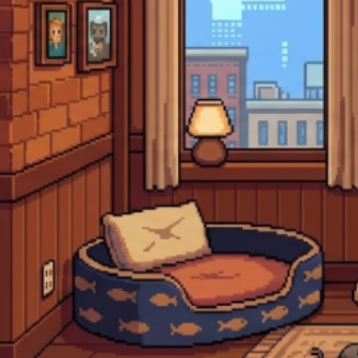
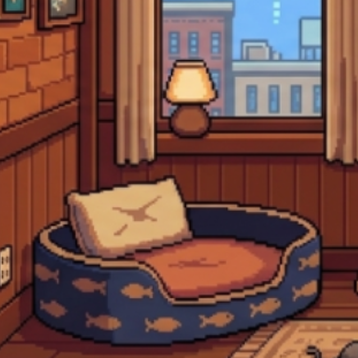
Retoques de Albert: gotas fuera de entrenando, michi mas grande, zzz en diagonal y la cama centrada
Cuatro ajustes tras probar la app en el movil:

- michi_entrenando tenia unas gotas de agua sueltas en la esquina
  inferior derecha, en los cuatro colores: son un resto de la celda
  vecina (michi_cansado) que la rejilla fija del recorte no separaba
  limpio. limpiar_gotas_entrenando(), en recortar_model_sheets.py,
  quita cualquier isla que no sea el gato y empiece por debajo de la
  altura del vapor de verdad (medido a mano en las cuatro hojas).

- El michi crece del 72% al 82% de su zona; la cabecera (nivel, barras,
  rotulo) ya tenia su propio hueco reservado por encima, asi que no la
  toca.

- Las tres zzz de dormir pasan de un texto suelto en la esquina de toda
  la zona a tres span en diagonal, pegados a la cabeza del gato (que en
  michi_durmiendo esta a la derecha), por delante de la capa que
  oscurece la pantalla para que sigan visibles dormido.

- BG_dormir.png recentrado: la cama de origen quedaba a 21px del centro
  del lienzo, y object-fit:cover centra el lienzo, no lo que hay
  dibujado dentro. Escalada un 15% y recortada centrada en la cama.

Cache a v13.

diff --git a/src/mascota/tamagotchi.css b/src/mascota/tamagotchi.css
@@ -147,9 +147,17 @@
   /* Mas grande y mas alto desde el 2026-09-16, a ojo de Albert: con la
      banda de iconos abajo la zona se acorto y el gato se quedo
      pequeño. Del 60% al 72%, y separado 10% del suelo en vez del 3%,
-     que lo despega de la banda y le deja ver los pies. */
-  position: absolute; bottom: 10%; left: 0; right: 0; margin: 0 auto;
-  height: 72%; width: auto;
+     que lo despega de la banda y le deja ver los pies.
+
+     Del 72% al 82% el 2026-09-18, tambien a ojo de Albert: seguia
+     viendose pequeño. El hueco de arriba de la zona (`ZONA.top` en
+     TamagotchiPNG.jsx) ya reserva sitio para la cabecera y el rotulo,
+     así que crecer aquí dentro no los toca —quedan de sobra unos 8
+     puntos de margen entre la cabeza del michi y el techo de la zona—.
+     Bajado tambien el margen del suelo, de 10% a 8%, para que la
+     proporción con la banda de iconos no cambie de golpe. */
+  position: absolute; bottom: 8%; left: 0; right: 0; margin: 0 auto;
+  height: 82%; width: auto;
   /* Sin suavizado: es pixel art, tiene que verse duro */
   image-rendering: pixelated;
   animation: mf-tama-respira 2.4s steps(2, end) infinite;
@@ -245,11 +253,26 @@
   position: absolute; inset: 0; background: rgba(12, 16, 10, .82);
   pointer-events: none; z-index: 2;
 }
+/* Antes del 2026-09-18 esto era un solo texto ("z z z") a top:8%/right:8%
+   -la esquina de TODA la zona-, lejos del michi, que vive abajo (ver
+   `.mf-tamapng-michi`) y encima curvado sobre su lado derecho. Ahora son
+   tres letras sueltas, cada una con su propio sitio: suben en diagonal
+   desde justo encima de la cabeza, que esta a la derecha en
+   `michi_durmiendo`. Los porcentajes son sobre la ZONA, no sobre la
+   pantalla entera. */
 .mf-tamapng-zzz2 {
-  position: absolute; top: 8%; right: 8%; z-index: 3;
-  font-family: 'Press Start 2P', monospace; font-size: 8px; color: #FFF6EC;
-  letter-spacing: 2px; animation: mf-tama-zzz 2.6s steps(3, end) infinite;
+  /* `inset:0` y no un tamaño propio: los porcentajes de los `span` de
+     dentro se miden contra ESTA caja, así que tiene que cubrir la zona
+     entera o esos porcentajes no significan lo que dicen. */
+  position: absolute; inset: 0; z-index: 3; pointer-events: none;
+  font-family: 'Press Start 2P', monospace; color: #FFF6EC;
 }
+.mf-tamapng-zzz2 span {
+  position: absolute; animation: mf-tama-zzz 2.6s steps(3, end) infinite;
+}
+.mf-tamapng-zzz2 .z1 { right: 24%; bottom: 44%; font-size: 6px; animation-delay: .4s; }
+.mf-tamapng-zzz2 .z2 { right: 18%; bottom: 51%; font-size: 8px; animation-delay: .2s; }
+.mf-tamapng-zzz2 .z3 { right: 10%; bottom: 60%; font-size: 10px; }
 
 /* --- franja de nivel dentro de la pantalla --- */
 .mf-tamapng-cabecera {

diff --git a/src/mascota/TamagotchiPNG.jsx b/src/mascota/TamagotchiPNG.jsx
@@ -398,7 +398,21 @@ export default function TamagotchiPNG({
             </div>
           )}
 
-          {dormido && <span className="mf-tamapng-zzz2" aria-hidden="true">z z z</span>}
+          {/* Tres zetas sueltas y no un solo texto con espacios: asi
+              cada una lleva su propio sitio y su propio tamaño, y salen
+              en diagonal ascendente -como un comic-, pegadas a la
+              cabeza del gato y no perdidas en la esquina de toda la
+              zona. Van POR ENCIMA de `mf-tamapng-apagada` (mismo
+              z-index de siempre) porque esa capa oscurece la pantalla
+              entera, sprite incluido: sin esto, dormido, la señal de
+              que sigue "vivo" desaparecería con el resto. */}
+          {dormido && (
+            <div className="mf-tamapng-zzz2" aria-hidden="true">
+              <span className="z1">z</span>
+              <span className="z2">z</span>
+              <span className="z3">Z</span>
+            </div>
+          )}
 
           {/* Sin cabecera (falta el huevo o no hay nivel), el mensaje no
               tiene rotulo detras del que ponerse y se queda donde

diff --git a/public/sw.js b/public/sw.js
@@ -64,7 +64,7 @@
    esto quien ya tuviera la app seguiria viendo los de antes.
 
    v4 fue por lo mismo: `limpiar` paso de cubo a escoba. */
-const CACHE = 'michifit-v12';
+const CACHE = 'michifit-v13';
 
 /* Lo mínimo para arrancar sin red. El resto se va guardando solo según
    se usa: la app es pequeña y se cachea entera en la primera visita. */

diff --git a/pixel/recortar_model_sheets.py b/pixel/recortar_model_sheets.py
@@ -200,6 +200,49 @@ def agujeros_sueltos(im, maximo=ISLA_MAXIMA):
     return im
 
 
+def limpiar_gotas_entrenando(im, desde_y=120):
+    """`michi_entrenando` es la columna 4 y `michi_cansado` la 5, pegadas
+    en la misma fila: las gotas de agua de `cansado` empiezan un poco
+    antes de su propia celda y la rejilla fija (ver cabecera) le corta
+    el trozo de la izquierda a esta. Salen como 3-4 motas sueltas de
+    unos pocos a 265 px, siempre por DEBAJO del vapor de verdad —que es
+    el unico adorno suelto que lleva esta pose, y no baja de y=105 en
+    ninguna de las cuatro hojas—. `desde_y` esta medido sobre la CELDA
+    CRUDA (275x384, antes de `encuadrar`), que es cuando se llama a esta
+    funcion: se comprobo a mano en las cuatro antes de fijar el umbral.
+    Quita cualquier isla que no sea la mas grande (el gato) y que
+    empiece por debajo de esa altura."""
+    im = im.copy()
+    ancho, alto = im.size
+    px = im.load()
+    visto = [[False] * ancho for _ in range(alto)]
+    islas = []
+    for y in range(alto):
+        for x in range(ancho):
+            if px[x, y][3] == 0 or visto[y][x]:
+                continue
+            cola = deque([(x, y)])
+            visto[y][x] = True
+            pts = [(x, y)]
+            while cola:
+                cx, cy = cola.popleft()
+                for dx, dy in ((1, 0), (-1, 0), (0, 1), (0, -1)):
+                    nx, ny = cx + dx, cy + dy
+                    if (0 <= nx < ancho and 0 <= ny < alto and not visto[ny][nx]
+                            and px[nx, ny][3] > 0):
+                        visto[ny][nx] = True
+                        cola.append((nx, ny))
+                        pts.append((nx, ny))
+            islas.append(pts)
+    islas.sort(key=len, reverse=True)
+    for pts in islas[1:]:
+        if min(p[1] for p in pts) >= desde_y:
+            for px_, py_ in pts:
+                r, g, b, _ = px[px_, py_]
+                px[px_, py_] = (r, g, b, 0)
+    return im
+
+
 def piezas(hoja):
     """Las diez celdas de la rejilla, en orden de lectura."""
     ancho, alto = hoja.size
@@ -232,6 +275,8 @@ def main():
                              % (color, len(trozos), len(POSES)))
         print('\n%s:' % color)
         for pose, trozo in zip(POSES, trozos):
+            if pose == 'michi_entrenando':
+                trozo = limpiar_gotas_entrenando(trozo)
             destino = os.path.join(DESTINO, pose + sufijo + '.png')
             if prueba:
                 print('  %-26s %dx%d' % (os.path.basename(destino), trozo.width, trozo.height))

diff --git a/CURRENT.md b/CURRENT.md
@@ -198,7 +198,36 @@ pantallas y el motor entero.
   con la cama centrada para dar la sensación de que el michi duerme
   ENCIMA y no de pie en el salón con los ojos cerrados. La escena
   `dormir` (`escenas.js`) usaba `casa`; ahora tiene su propio fondo, con
-  entrada propia en `ESCENARIOS`.
+  entrada propia en `ESCENARIOS`. Y la propia imagen se recentró: la
+  cama de origen quedaba a 21 px del centro real del lienzo (358x358),
+  así que `object-fit: cover` —que centra el LIENZO, no lo que hay
+  dibujado dentro— la dejaba corrida a la derecha. Escalada un 15% y
+  recortada centrada en la cama, no en el lienzo.
+- Última acción (2026-09-18, tanda de retoques): cuatro ajustes que pidió
+  Albert al probarlo:
+  · **las gotas sueltas de `entrenando`, fuera**. `michi_entrenando` es
+    la columna 4 de la rejilla y `michi_cansado` la 5, pegadas en la
+    misma fila: las gotas de agua de `cansado` empezaban un poco antes
+    de su propia celda y la rejilla fija (2026-09-17) le cortaba el
+    trozo a `entrenando`. Salían 3-4 motas sueltas, en los cuatro
+    colores, siempre por debajo del vapor de verdad —que es el único
+    adorno suelto de esta pose—. `limpiar_gotas_entrenando()` en
+    `recortar_model_sheets.py` quita cualquier isla que no sea el gato y
+    que empiece por debajo de esa altura, medida a mano en las cuatro
+    hojas antes de fijar el umbral.
+  · **el michi, más grande**. Del 72% al 82% de la zona, con 8% de
+    margen al suelo en vez de 10%. La zona ya reservaba sitio para la
+    cabecera (nivel, barras, rótulo) por encima, así que crecer aquí
+    dentro no los toca.
+  · **las zzz de dormir, en diagonal y pegadas a la cabeza**. Eran un
+    solo texto ("z z z") a top:8%/right:8% de TODA la zona —la esquina,
+    lejos del gato, que vive abajo—. Ahora son tres `span` sueltos, cada
+    uno con su sitio y su tamaño, subiendo en diagonal desde justo
+    encima de la cabeza (que en `michi_durmiendo` está a la derecha).
+    Siguen por delante de `mf-tamapng-apagada` —la capa que oscurece la
+    pantalla entera al dormir— porque si no, la señal de que el michi
+    sigue "vivo" se apagaría con el resto de la escena.
+  Caché a v13.
 - Próximo paso: nada urgente. Lo que queda abierto, para cuando Albert
   quiera:
   · **decidir el gimnasio nuevo** (se prueba desde el panel de pruebas) —
